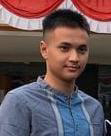
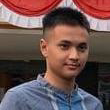
update foto ale

diff --git a/xiibp/xiibp.html b/xiibp/xiibp.html
@@ -111,7 +111,7 @@
         <div class="row">
             <div class=" col-4 box-4">
                 <figure class="figure">
-                    <img src="images/krisna.jpeg" class="figure-img img-fluid" alt="blog">
+                    <img src="images/ale.png" class="figure-img img-fluid" alt="blog">
                 </figure>
             </div>
             <div class="col-8 box-5">
